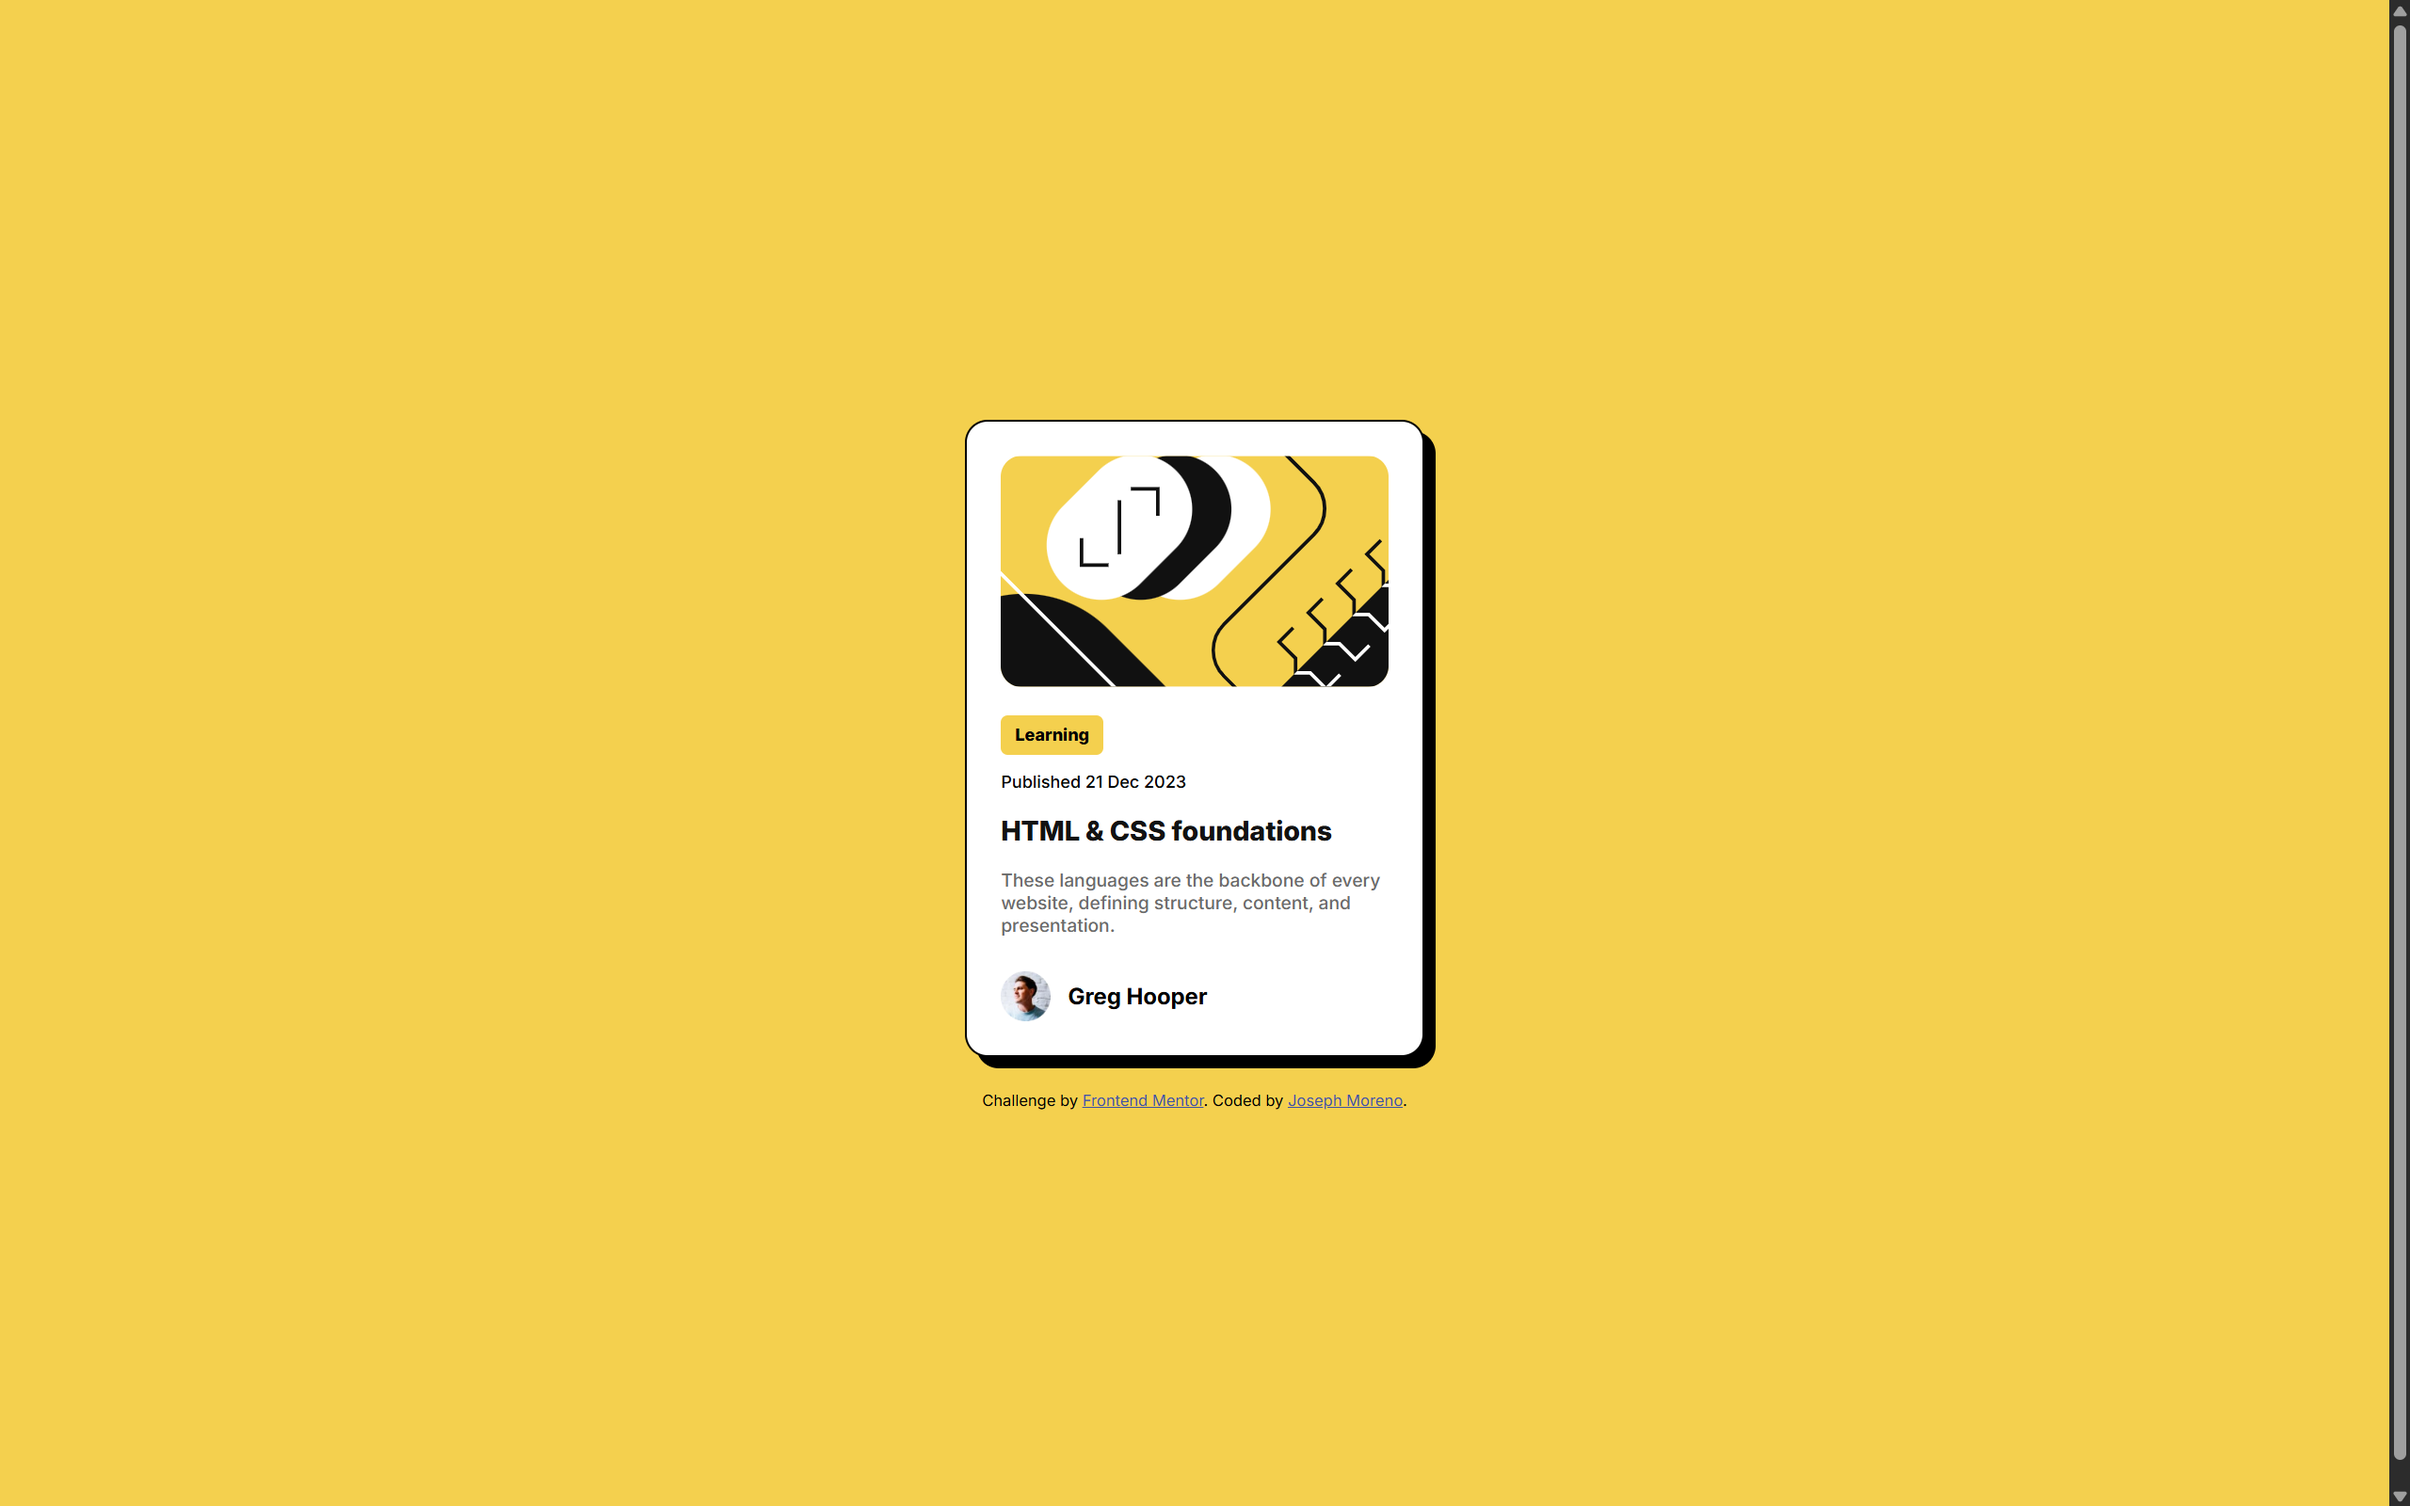
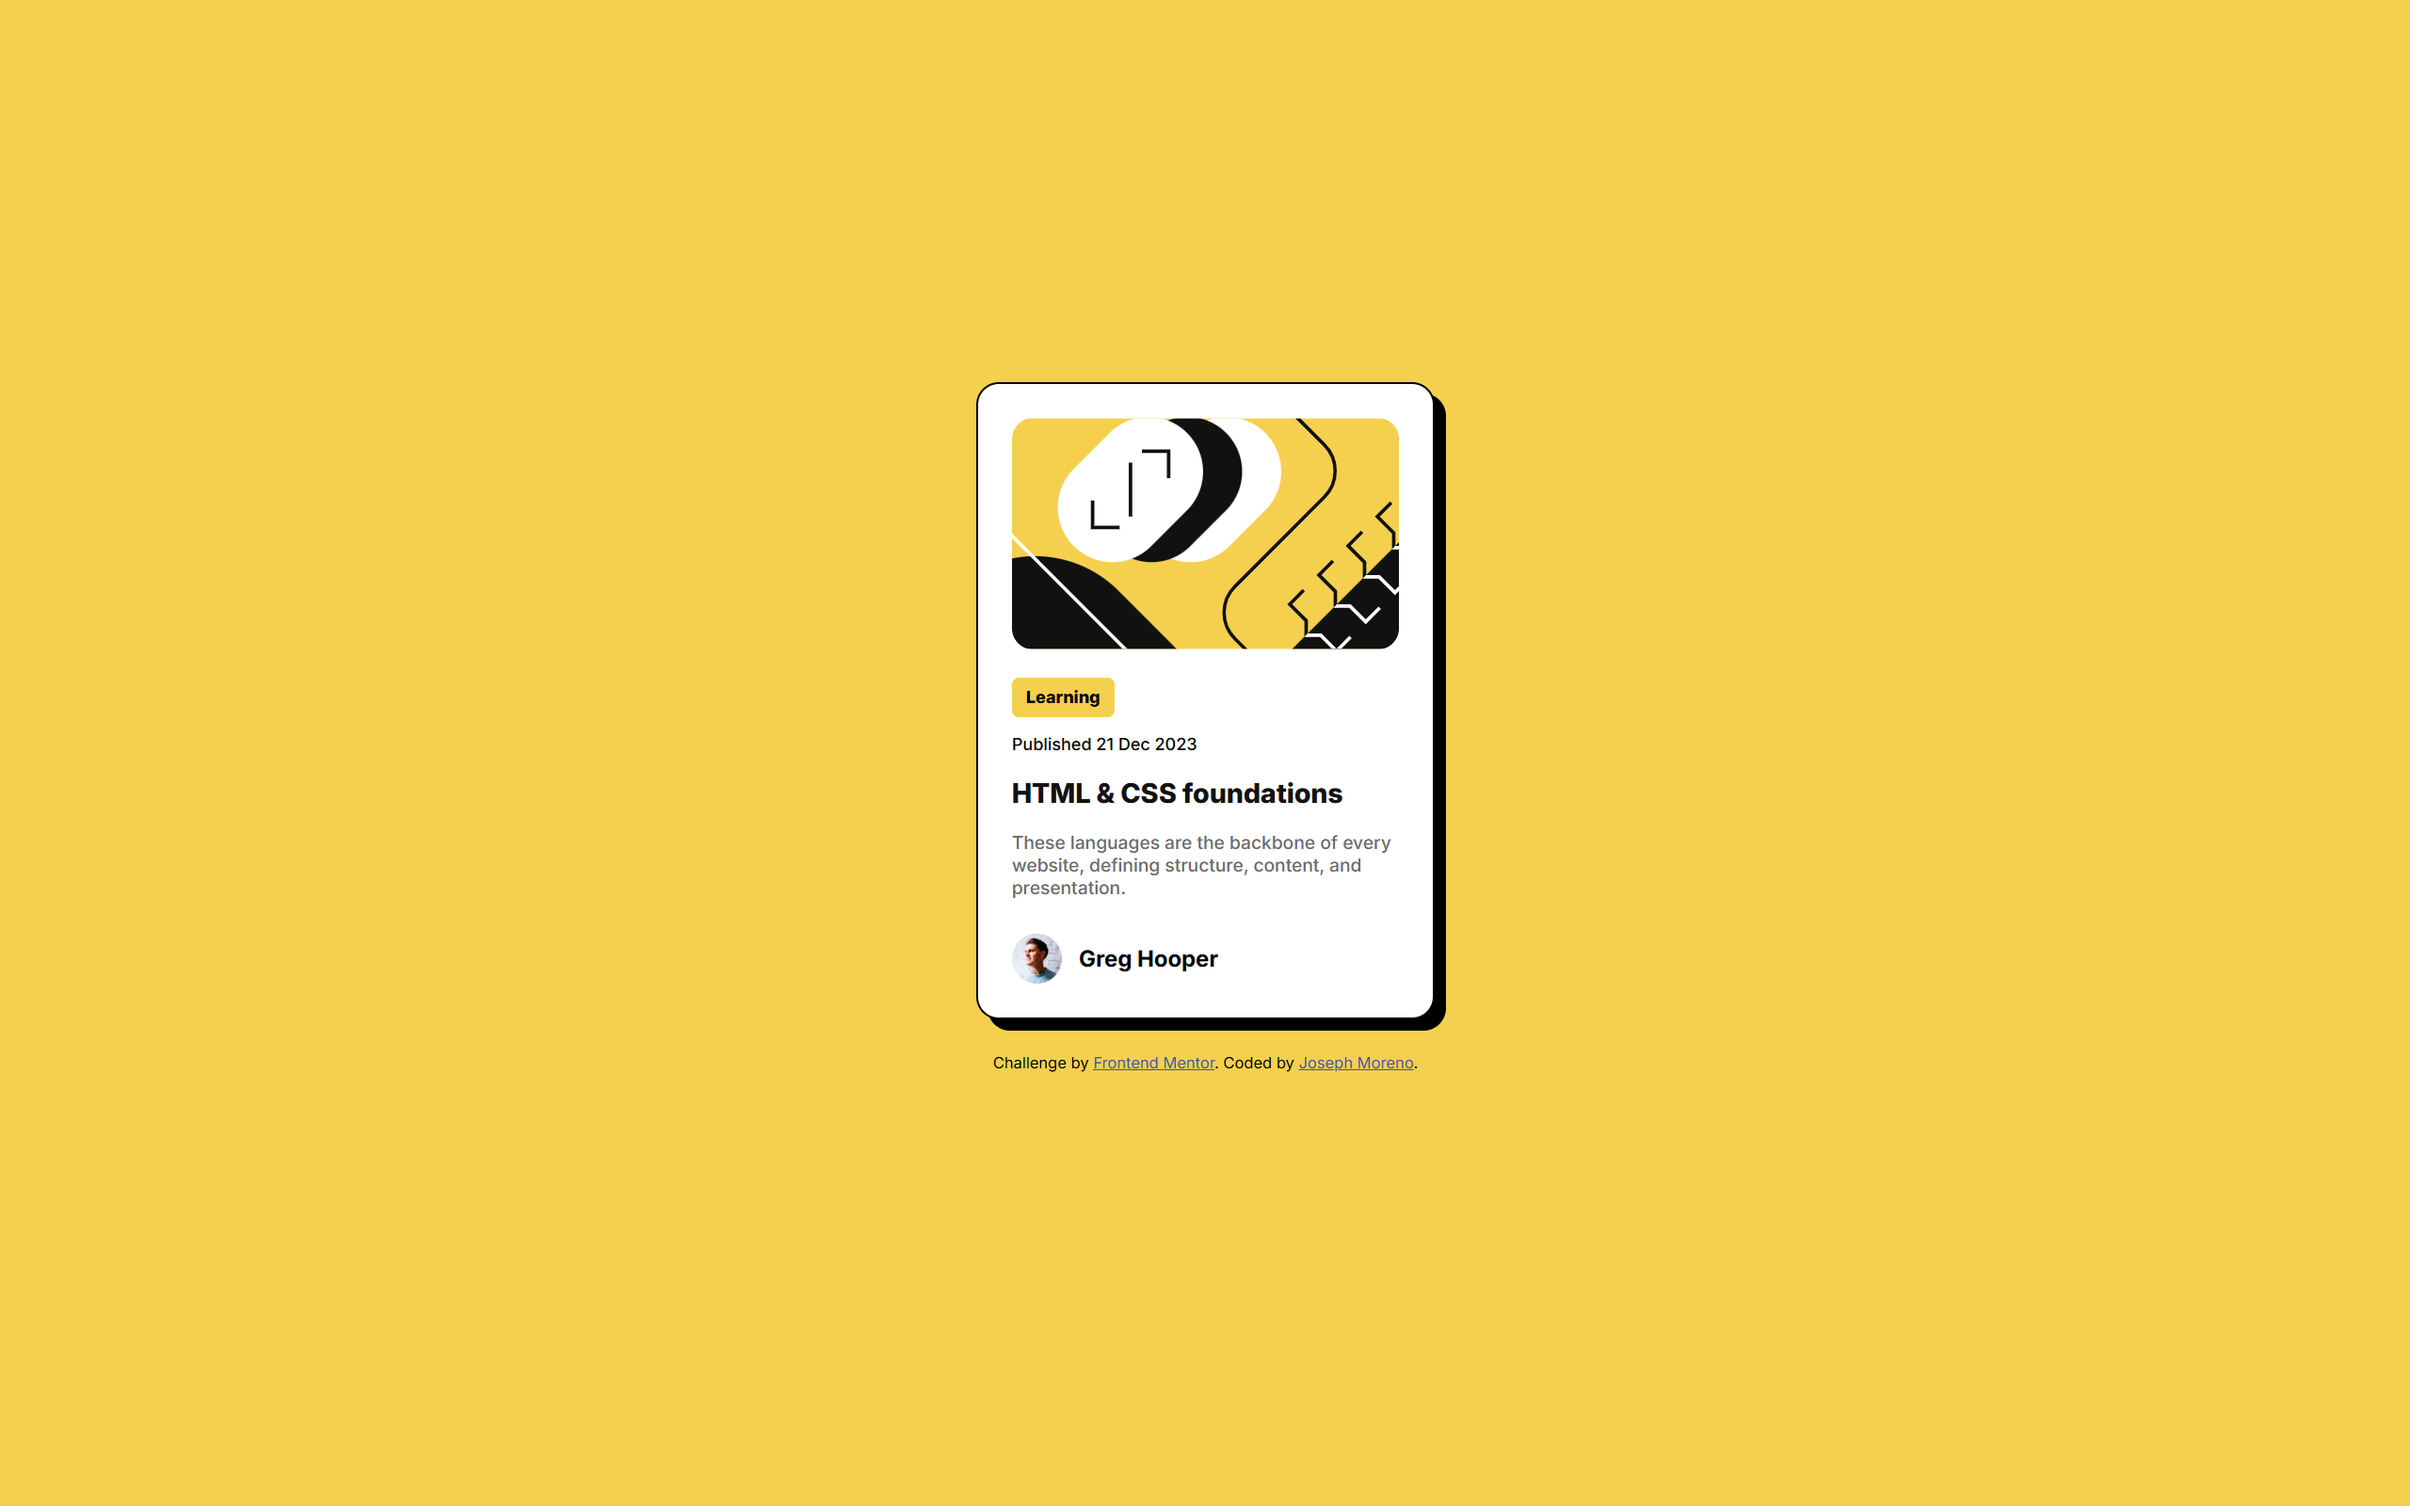
Updated README

Changed region(s): [[0.375, 0.25, 0.625, 0.75], [0.9688, 0.0, 1.0, 1.0]]

diff --git a/css/styles.css b/css/styles.css
@@ -16,7 +16,7 @@ body {
 
 .card {
     background-color: #fff;
-    max-inline-size: 325px;
+    inline-size: 325px;
     margin-inline: auto;
     padding: 24px;
     border-radius: 16px;

diff --git a/README.md b/README.md
@@ -1,93 +1,52 @@
-# Frontend Mentor - Blog preview card
+# Frontend Mentor - Blog preview card solution
 
-![Design preview for the Blog preview card coding challenge](./preview.jpg)
+This is a solution to the [Blog preview card challenge on Frontend Mentor](https://www.frontendmentor.io/challenges/blog-preview-card-ckPaj01IcS). Frontend Mentor challenges help you improve your coding skills by building realistic projects. 
 
-## Welcome! 👋
+## Table of contents
 
-Thanks for checking out this front-end coding challenge.
+- [Overview](#overview)
+  - [Screenshot](#screenshot)
+  - [Links](#links)
+- [My process](#my-process)
+  - [Built with](#built-with)
+  - [What I learned](#what-i-learned)
+  - [Useful resources](#useful-resources)
 
-[Frontend Mentor](https://www.frontendmentor.io) challenges help you improve your coding skills by building realistic projects.
+## Overview
 
-**To do this challenge, you need a basic understanding of HTML and CSS.**
+Blog preview card made with HTML and CSS
 
-## The challenge
+### Screenshot
 
-Your challenge is to build out this blog preview card and get it looking as close to the design as possible.
+![My solution screenshot](./screenshot.png)
 
-You can use any tools you like to help you complete the challenge. So if you've got something you'd like to practice, feel free to give it a go.
+### Links
 
-Your users should be able to:
+- [https://www.frontendmentor.io/solutions/blog-preview-card-XmO5r46oCS](Solution URL)
+- [https://josephmoreno.github.io/blog-preview-card/](Live Site URL)
 
-- See hover and focus states for all interactive elements on the page
+## My process
 
-Want some support on the challenge? [Join our community](https://www.frontendmentor.io/community) and ask questions in the **#help** channel.
+Structured the HTML first; the card is its own div that contains multiple block elements: the image, the "status", publish date, title, the summary text, and the profile image + publisher name is a single div.
 
-## Where to find everything
+HTML structure and styling between mobile and desktop version don't change.
 
-Your task is to build out the project to the designs inside the `/design` folder. You will find both a mobile and a desktop version of the design. 
+Started styling:
+1. Make body containing the card span the viewport's height (approximately, 95vh)
+2. Center the card vertically (align-content on body) and horizontally ("margin-inline: auto;" on the card)
+3. Imported and used font in the body
+4. Adjusted finer details: font size, font weight, color, border-radius, background colors
 
-The designs are in JPG static format. Using JPGs will mean that you'll need to use your best judgment for styles such as `font-size`, `padding` and `margin`. 
+### Built with
 
-If you would like the design files (we provide Sketch & Figma versions) to inspect the design in more detail, you can [subscribe as a PRO member](https://www.frontendmentor.io/pro).
+- Semantic HTML5 markup
+- Mobile-first workflow
 
-All the required assets for this project are in the `/assets` folder. The images are already exported for the correct screen size and optimized.
+### What I learned
 
-We also include variable and static font files for the required fonts for this project. You can choose to either link to Google Fonts or use the local font files to host the fonts yourself. Note that we've removed the static font files for the font weights that aren't needed for this project.
+:hover pseudo-class to change text color. 
 
-There is also a `style-guide.md` file containing the information you'll need, such as color palette and fonts.
+### Useful resources
 
-## Building your project
-
-Feel free to use any workflow that you feel comfortable with. Below is a suggested process, but do not feel like you need to follow these steps:
-
-1. Initialize your project as a public repository on [GitHub](https://github.com/). Creating a repo will make it easier to share your code with the community if you need help. If you're not sure how to do this, [have a read-through of this Try Git resource](https://try.github.io/).
-2. Configure your repository to publish your code to a web address. This will also be useful if you need some help during a challenge as you can share the URL for your project with your repo URL. There are a number of ways to do this, and we provide some recommendations below.
-3. Look through the designs to start planning out how you'll tackle the project. This step is crucial to help you think ahead for CSS classes to create reusable styles.
-4. Before adding any styles, structure your content with HTML. Writing your HTML first can help focus your attention on creating well-structured content.
-5. Write out the base styles for your project, including general content styles, such as `font-family` and `font-size`.
-6. Start adding styles to the top of the page and work down. Only move on to the next section once you're happy you've completed the area you're working on.
-
-## Deploying your project
-
-As mentioned above, there are many ways to host your project for free. Our recommend hosts are:
-
-- [GitHub Pages](https://pages.github.com/)
-- [Vercel](https://vercel.com/)
-- [Netlify](https://www.netlify.com/)
-
-You can host your site using one of these solutions or any of our other trusted providers. [Read more about our recommended and trusted hosts](https://medium.com/frontend-mentor/frontend-mentor-trusted-hosting-providers-bf000dfebe).
-
-## Create a custom `README.md`
-
-We strongly recommend overwriting this `README.md` with a custom one. We've provided a template inside the [`README-template.md`](./README-template.md) file in this starter code.
-
-The template provides a guide for what to add. A custom `README` will help you explain your project and reflect on your learnings. Please feel free to edit our template as much as you like.
-
-Once you've added your information to the template, delete this file and rename the `README-template.md` file to `README.md`. That will make it show up as your repository's README file.
-
-## Submitting your solution
-
-Submit your solution on the platform for the rest of the community to see. Follow our ["Complete guide to submitting solutions"](https://medium.com/frontend-mentor/a-complete-guide-to-submitting-solutions-on-frontend-mentor-ac6384162248) for tips on how to do this.
-
-Remember, if you're looking for feedback on your solution, be sure to ask questions when submitting it. The more specific and detailed you are with your questions, the higher the chance you'll get valuable feedback from the community.
-
-## Sharing your solution
-
-There are multiple places you can share your solution:
-
-1. Share your solution page in the **#finished-projects** channel of our [community](https://www.frontendmentor.io/community). 
-2. Tweet [@frontendmentor](https://twitter.com/frontendmentor) and mention **@frontendmentor**, including the repo and live URLs in the tweet. We'd love to take a look at what you've built and help share it around.
-3. Share your solution on other social channels like LinkedIn.
-4. Blog about your experience building your project. Writing about your workflow, technical choices, and talking through your code is a brilliant way to reinforce what you've learned. Great platforms to write on are [dev.to](https://dev.to/), [Hashnode](https://hashnode.com/), and [CodeNewbie](https://community.codenewbie.org/).
-
-We provide templates to help you share your solution once you've submitted it on the platform. Please do edit them and include specific questions when you're looking for feedback. 
-
-The more specific you are with your questions the more likely it is that another member of the community will give you feedback.
-
-## Got feedback for us?
-
-We love receiving feedback! We're always looking to improve our challenges and our platform. So if you have anything you'd like to mention, please email hi[at]frontendmentor[dot]io.
-
-This challenge is completely free. Please share it with anyone who will find it useful for practice.
-
-**Have fun building!** 🚀
+- [:hover pseudo-class](https://developer.mozilla.org/en-US/docs/Web/CSS/:hover) - Card title's text color changed with :hover
+- [CSS pseudo-classes](https://developer.mozilla.org/en-US/docs/Web/CSS/Pseudo-classes)
